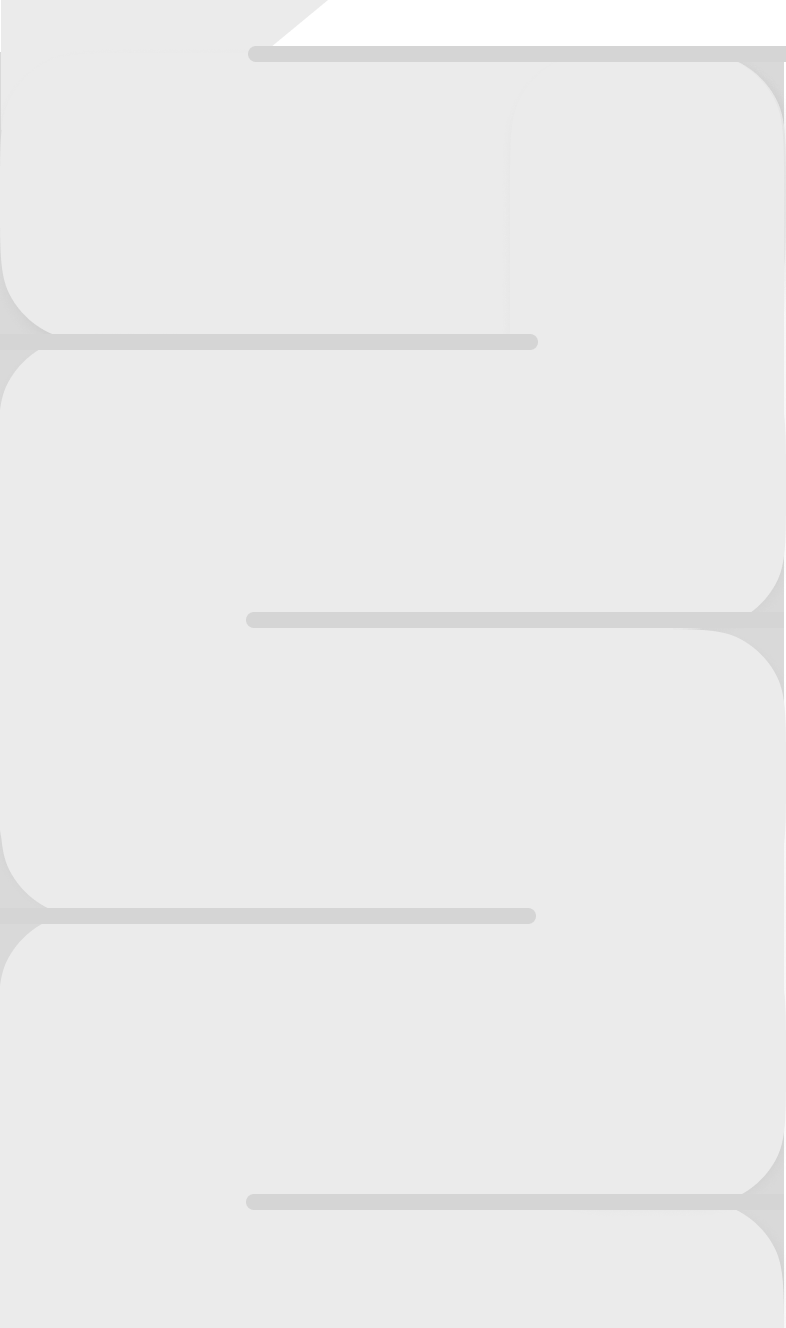
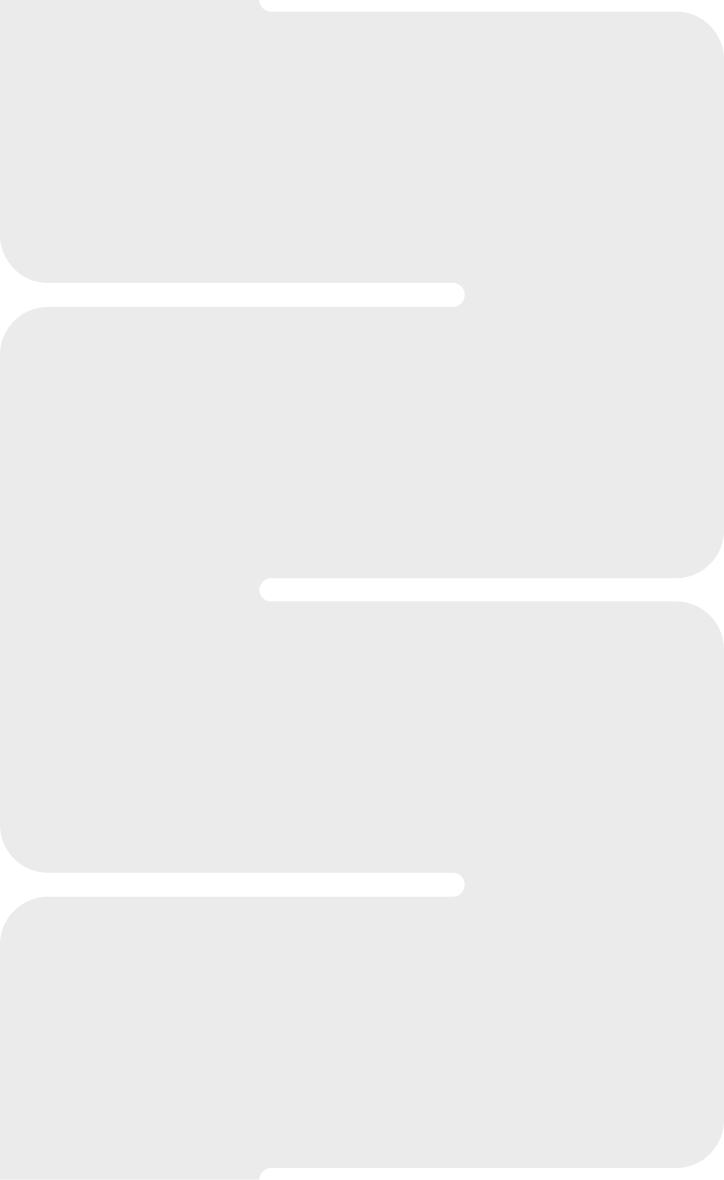
refactor: retouch pipe

Changed region(s): [[0.0, 0.2136, 0.6381, 0.3051], [0.9724, 0.4576, 1.0, 0.5186], [0.0, 0.7017, 0.0304, 0.7322]]

diff --git a/lib/screens/home_screen.dart b/lib/screens/home_screen.dart
@@ -114,7 +114,7 @@ class _HomescreenState extends State<Homescreen> {
   @override
   Widget build(BuildContext context) {
     return Scaffold(
-      backgroundColor: Colors.pink.shade50,
+      backgroundColor: const Color(0xffd9d9d9),
       body: Container(
           padding: const EdgeInsets.symmetric(vertical: 20),
           child: Column(
@@ -153,29 +153,59 @@ class _HomescreenState extends State<Homescreen> {
                 ),
               ),
               Expanded(
-                child: Container(
-                  decoration: const BoxDecoration(
-                      image: DecorationImage(
-                          fit: BoxFit.fill,
-                          image: AssetImage('assets/images/pipe_bg.png'))),
-                  padding: const EdgeInsets.symmetric(horizontal: 20),
-                  child: FutureBuilder(
-                    future: _diaries,
-                    builder: (context, snapshot) {
-                      if (snapshot.connectionState == ConnectionState.waiting) {
-                        return const Center(child: CircularProgressIndicator());
-                      } else if (snapshot.hasData) {
-                        return GridView.count(
-                            padding: const EdgeInsets.symmetric(vertical: 40),
-                            crossAxisCount: 3,
-                            crossAxisSpacing: 10,
-                            mainAxisSpacing: 12,
-                            children: convertDiairiesIntoBeads(snapshot.data!));
-                      } else {
-                        return const Center(child: Text('No data'));
-                      }
-                    },
-                  ),
+                child: Stack(
+                  children: [
+                    Positioned.fill(
+                        child: Image.asset(
+                      'assets/images/pipe_bg.png',
+                      repeat: ImageRepeat.repeatY,
+                      fit: BoxFit.fill,
+                    )),
+                    FutureBuilder(
+                      future: _diaries,
+                      builder: (context, snapshot) {
+                        if (snapshot.connectionState ==
+                            ConnectionState.waiting) {
+                          return const Center(
+                              child: CircularProgressIndicator());
+                        } else if (snapshot.hasData) {
+                          return GridView.count(
+                              padding: const EdgeInsets.symmetric(
+                                  vertical: 20, horizontal: 20),
+                              crossAxisCount: 3,
+                              crossAxisSpacing: 8,
+                              mainAxisSpacing: 32,
+                              children:
+                                  convertDiairiesIntoBeads(snapshot.data!));
+                        } else {
+                          return const Center(child: Text('No data'));
+                        }
+                      },
+                    ),
+                  ],
+                  // decoration: const BoxDecoration(
+                  //     color: Color(0xffd9d9d9),
+                  //     image: DecorationImage(
+                  //         fit: BoxFit.fill,
+                  //         image: AssetImage('assets/images/pipe_bg.png'))),
+                  // padding: const EdgeInsets.symmetric(horizontal: 20),
+                  // child: FutureBuilder(
+                  //   future: _diaries,
+                  //   builder: (context, snapshot) {
+                  //     if (snapshot.connectionState == ConnectionState.waiting) {
+                  //       return const Center(child: CircularProgressIndicator());
+                  //     } else if (snapshot.hasData) {
+                  //       return GridView.count(
+                  //           padding: const EdgeInsets.symmetric(vertical: 20),
+                  //           crossAxisCount: 3,
+                  //           crossAxisSpacing: 8,
+                  //           mainAxisSpacing: 32,
+                  //           children: convertDiairiesIntoBeads(snapshot.data!));
+                  //     } else {
+                  //       return const Center(child: Text('No data'));
+                  //     }
+                  //   },
+                  // ),
                 ),
               ),
               const SizedBox(
